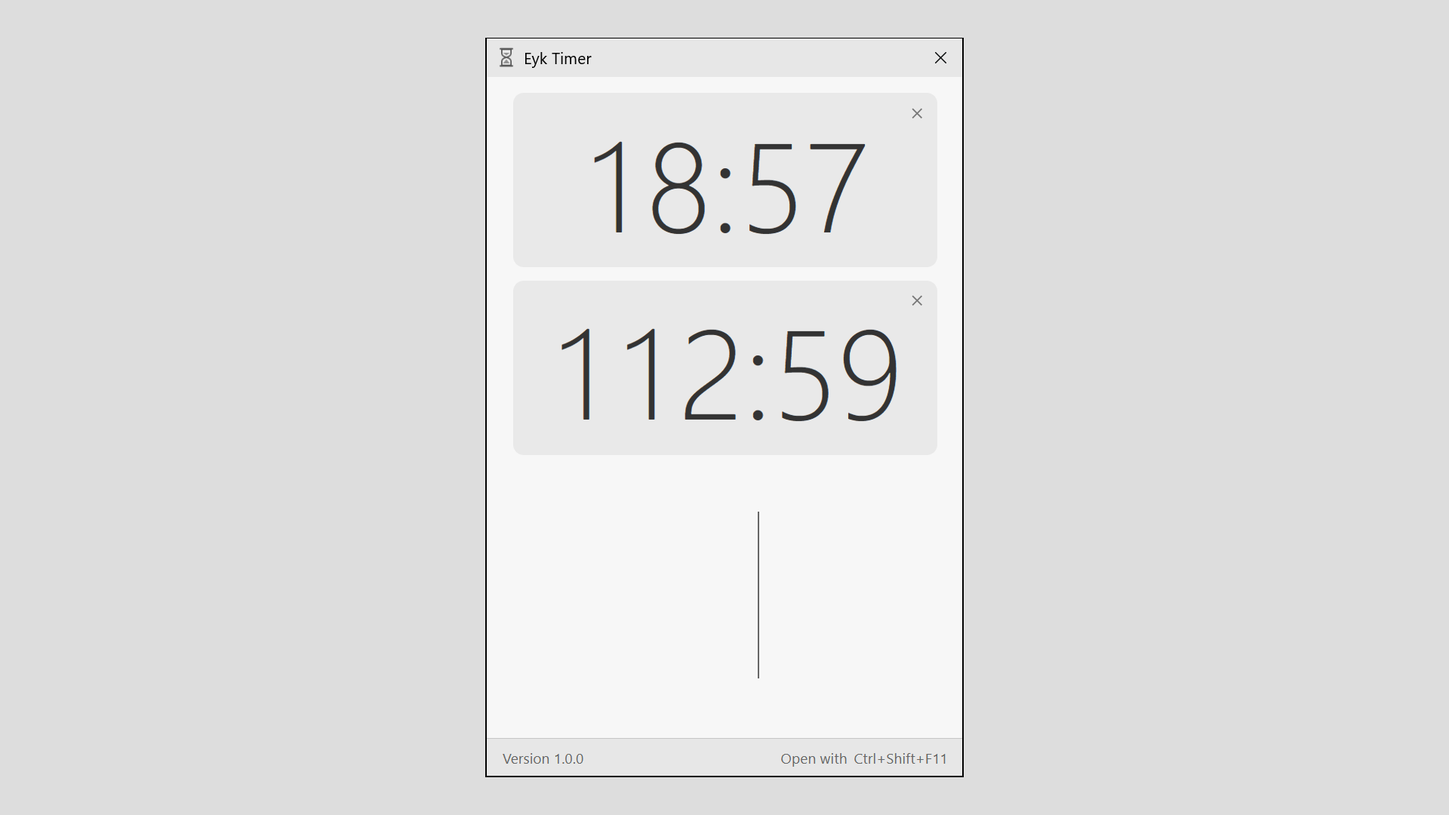
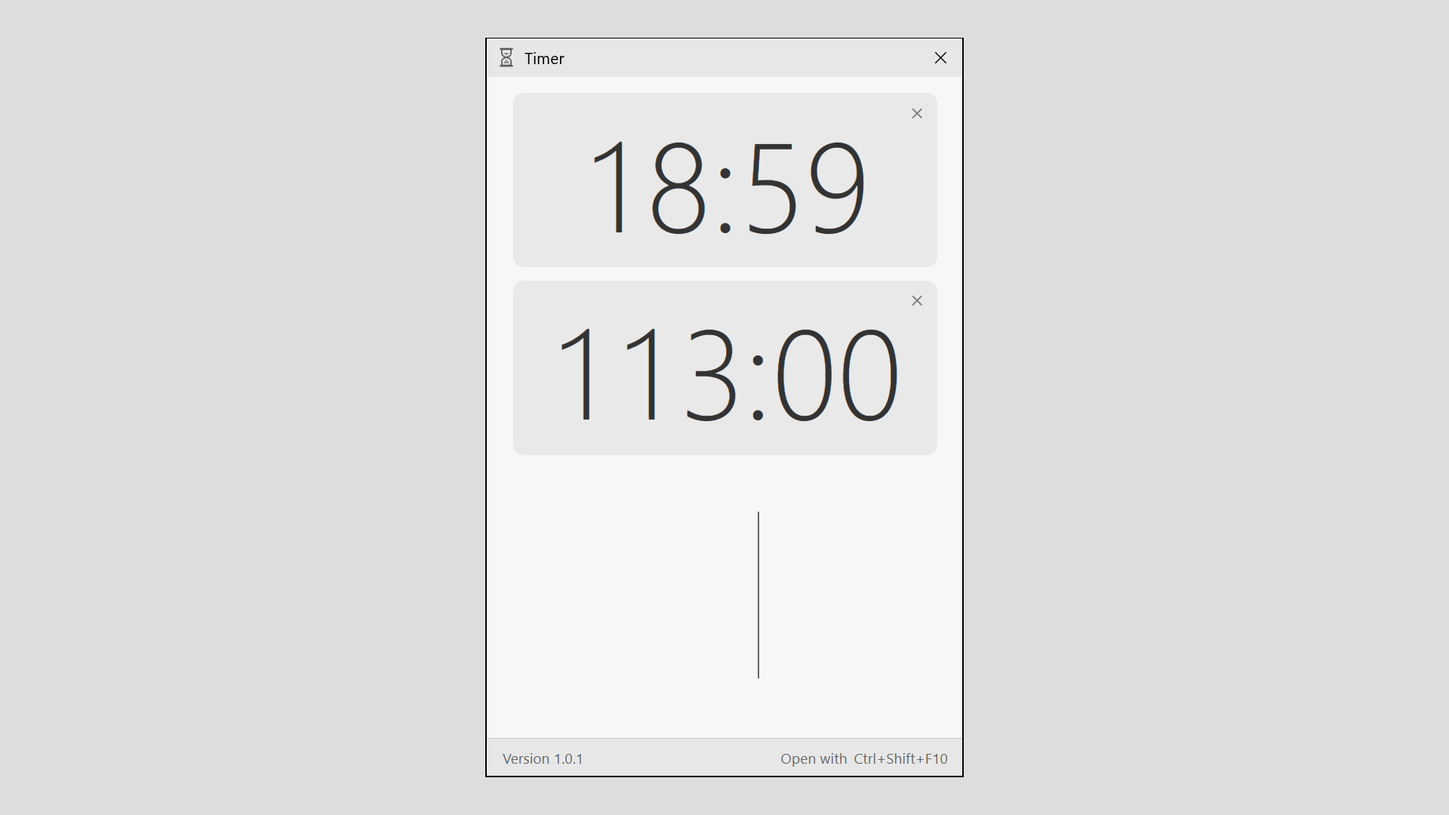
fix: simplify product presentation and follow system appearance

Changed region(s): [[0.4688, 0.3972, 0.625, 0.5194], [0.5625, 0.1528, 0.5938, 0.3056], [0.3438, 0.0611, 0.4062, 0.0917]]

diff --git a/src/style.css b/src/style.css
@@ -1,6 +1,8 @@
 :root {
   font-family: "Segoe UI Variable", "Segoe UI", system-ui, sans-serif;
-  color: #333; background: #f7f7f7;
+  color-scheme: light dark;
+  --surface: #f7f7f7; --text: #333; --chrome: #e7e7e7; --card: #e9e9e9; --muted: #666; --line: #c5c5c5; --cancel: #777; --hover: #d7d7d7; --scroll: #ccc; --canvas: #ddd;
+  color: var(--text); background: var(--surface);
   font-synthesis: none; text-rendering: optimizeLegibility; -webkit-font-smoothing: antialiased;
   --digits: 6rem;
 }
@@ -8,34 +10,37 @@
 html, body, #root { margin: 0; width: 100%; height: 100%; }
 body { overflow: hidden; }
 #root { display: flex; align-items: center; justify-content: center; }
-.app { width: 100%; height: 100%; display: flex; flex-direction: column; background: #f7f7f7; }
-.preview-titlebar { position: absolute; inset: auto; transform: translateY(-32px); width: 360px; height: 32px; display: flex; align-items: center; gap: 8px; padding: 0 12px; background: #e7e7e7; font-size: 12px; }
+.app { width: 100%; height: 100%; display: flex; flex-direction: column; background: var(--surface); }
+.preview-titlebar { position: absolute; inset: auto; transform: translateY(-32px); width: 360px; height: 32px; display: flex; align-items: center; gap: 8px; padding: 0 12px; background: var(--chrome); font-size: 12px; }
 .preview-titlebar img { width: 16px; height: 16px; }
 .workspace { --entry-height: 11.875rem; flex: 1; min-height: 0; display: flex; flex-direction: column; gap: .625rem; padding: .75rem 1.25rem; }
 .entry { flex: 1 0 var(--entry-height); min-height: var(--entry-height); display: flex; align-items: center; justify-content: center; }
 input {
   height: 7.875rem; padding: 0; border: 0; outline: none; box-sizing: content-box;
-  background: transparent; color: inherit; caret-color: #666;
+  background: transparent; color: inherit; caret-color: var(--muted);
   font: inherit; font-size: var(--digits); font-weight: 300; line-height: 1;
   text-align: center; font-variant-numeric: tabular-nums;
 }
 input[data-empty="true"] { text-align: right; }
-.running { flex: 0 1 auto; min-height: 0; overflow-y: auto; display: flex; flex-direction: column; gap: .625rem; scrollbar-width: thin; scrollbar-color: #ccc transparent; }
-.timer-card { position: relative; flex: 0 0 8.25rem; display: flex; align-items: center; justify-content: center; border-radius: 8px; background: #e9e9e9; padding: 8px; }
+.running { flex: 0 1 auto; min-height: 0; overflow-y: auto; display: flex; flex-direction: column; gap: .625rem; scrollbar-width: thin; scrollbar-color: var(--scroll) transparent; }
+.timer-card { position: relative; flex: 0 0 8.25rem; display: flex; align-items: center; justify-content: center; border-radius: 8px; background: var(--card); padding: 8px; }
 .timer-card time, .alarm time, .digit-measure { font-size: var(--digits); font-weight: 300; line-height: 1.15; font-variant-numeric: tabular-nums; }
-.cancel { position: absolute; top: 3px; right: 3px; display: grid; place-items: center; width: 25px; height: 25px; padding: 0; border: 0; border-radius: 3px; background: transparent; color: #777; cursor: pointer; }
-.cancel:hover { background: #d7d7d7; color: #333; }
-.cancel:focus-visible { outline: 1px solid #777; }
+.cancel { position: absolute; top: 3px; right: 3px; display: grid; place-items: center; width: 25px; height: 25px; padding: 0; border: 0; border-radius: 3px; background: transparent; color: var(--cancel); cursor: pointer; }
+.cancel:hover { background: var(--hover); color: var(--text); }
+.cancel:focus-visible { outline: 1px solid var(--cancel); }
 .cancel svg { width: 14px; height: 14px; fill: none; stroke: currentColor; stroke-width: 1.2; }
 .alarm { min-height: var(--entry-height); flex: 1; display: flex; align-items: center; justify-content: center; }
 .alarm time { animation: alarm-pulse 1.5s ease-in-out infinite; }
-footer { flex: 0 0 1.875rem; display: flex; align-items: center; justify-content: space-between; gap: 10px; padding: 0 12px; border-top: 1px solid #c5c5c5; background: #e7e7e7; font-size: .6875rem; color: #666; white-space: nowrap; }
+footer { flex: 0 0 1.875rem; display: flex; align-items: center; justify-content: space-between; gap: 10px; padding: 0 12px; border-top: 1px solid var(--line); background: var(--chrome); font-size: .6875rem; color: var(--muted); white-space: nowrap; }
 kbd { margin-left: 2px; font: inherit; }
-.error { margin: 0; font-size: 12px; color: #555; text-align: center; }
+.error { margin: 0; font-size: 12px; color: var(--muted); text-align: center; }
 .rest { width: 100%; height: 100%; }
 @keyframes alarm-pulse { 50% { opacity: .22; } }
 @media (prefers-reduced-motion: reduce) { .alarm time { animation: none; } }
-@media (min-width: 500px) { body { background: #ddd; } .app { box-shadow: 0 12px 50px #00000012; } }
+@media (min-width: 500px) { body { background: var(--canvas); } .app { box-shadow: 0 12px 50px #00000012; } }
 
 .digit-measure { position: absolute; visibility: hidden; white-space: nowrap; pointer-events: none; }
 .browser-preview .app { width: var(--preview-width, 360px); height: var(--preview-height, 244px); max-width: 100vw; }
+
+:root[data-theme="dark"] { --surface: #1b1b1b; --text: #e8e8e8; --chrome: #252525; --card: #2b2b2b; --muted: #b5b5b5; --line: #444; --cancel: #aaa; --hover: #414141; --scroll: #666; --canvas: #111; }
+:root[data-theme="dark"] .preview-titlebar img { filter: brightness(0) invert(1); }

diff --git a/website/assets/style.css b/website/assets/style.css
@@ -1,1 +1,27 @@
-:root{font-family:'Segoe UI',system-ui,sans-serif;color:#252525;background:#f7f7f5;font-synthesis:none}*{box-sizing:border-box}body{margin:0}a{color:inherit;text-underline-offset:4px}header,main,footer{max-width:1060px;margin:auto;padding:28px}header{display:flex;justify-content:space-between;align-items:center}header>a{text-decoration:none;display:flex;align-items:center;gap:10px;font-size:18px}header img{width:23px}nav{display:flex;gap:16px;font-size:14px}nav a[aria-current]{font-weight:650;text-decoration:none}.hero{display:grid;grid-template-columns:1.05fr 1fr;align-items:center;gap:64px;padding:55px 0 65px}h1{font-size:15px;letter-spacing:.1em;text-transform:uppercase;font-weight:500;color:#666;margin:0 0 24px}h2{font-size:clamp(40px,5.8vw,66px);font-weight:350;line-height:1.12;letter-spacing:-.045em;margin:0 0 26px}.intro{font-size:18px;line-height:1.65;max-width:410px;color:#555}.download{display:inline-flex;align-items:center;gap:12px;background:#292929;color:#fff;text-decoration:none;padding:14px 22px;border-radius:7px;margin-top:18px;font-weight:550}.download:hover{background:#444}.fine{font-size:12px;color:#666;line-height:1.6;max-width:380px}.shot{margin:0;display:flex;justify-content:center}.shot img{width:100%;max-width:370px;height:auto;filter:drop-shadow(0 16px 24px #00000018);border-radius:4px}.facts{border-top:1px solid #d7d7d3;padding:28px 0;display:flex;gap:30px;flex-wrap:wrap;font-size:14px;color:#555}.detail{max-width:710px;line-height:1.7;color:#555}footer{border-top:1px solid #d7d7d3;display:flex;justify-content:space-between;gap:20px;flex-wrap:wrap;font-size:13px;color:#666;margin-top:40px}footer div{display:flex;gap:20px;flex-wrap:wrap}a:focus-visible{outline:2px solid #444;outline-offset:5px}.legal{max-width:720px;line-height:1.8;padding-bottom:60px}.legal h1{font-size:32px;letter-spacing:0;text-transform:none;color:#252525}@media(max-width:700px){header,main,footer{padding:22px}.hero{grid-template-columns:1fr;gap:35px;padding:28px 0 40px}h2{font-size:48px}.shot img{max-width:300px}.facts{gap:14px 24px}}
+:root { color-scheme: light dark; --bg: #f7f7f5; --fg: #292929; --muted: #666; --button: #292929; --button-text: #fff; --hover: #454545; font-family: 'Segoe UI', system-ui, sans-serif; font-synthesis: none; }
+* { box-sizing: border-box; }
+body { margin: 0; background: var(--bg); color: var(--fg); }
+a { color: inherit; text-underline-offset: 4px; }
+a:focus-visible { outline: 2px solid currentColor; outline-offset: 5px; }
+header, main, footer { width: min(100%, 840px); margin-inline: auto; padding: 24px; }
+header { display: flex; justify-content: space-between; align-items: center; gap: 20px; }
+.brand { display: inline-flex; align-items: center; gap: 10px; text-decoration: none; font-size: 18px; }
+.brand img { width: 22px; height: 22px; }
+nav { display: flex; gap: 16px; font-size: 14px; }
+nav a[aria-current] { font-weight: 650; text-decoration: none; }
+main { display: grid; grid-template-columns: 1fr 270px; align-items: center; gap: 48px; padding-block: 24px; }
+h1 { font-size: clamp(28px, 4vw, 36px); line-height: 1.3; font-weight: 400; letter-spacing: -.025em; margin: 0 0 28px; }
+.download { display: inline-block; padding: 13px 20px; border-radius: 6px; color: var(--button-text); background: var(--button); font-size: 15px; font-weight: 550; text-decoration: none; }
+.download:hover { background: var(--hover); }
+.shot { margin: 0; position: relative; }
+.shot img { display: block; width: 100%; height: auto; border-radius: 3px; box-shadow: 0 10px 28px #00000018; }
+footer { display: flex; flex-wrap: wrap; justify-content: space-between; gap: 16px; color: var(--muted); font-size: 14px; }
+footer div { display: flex; flex-wrap: wrap; gap: 18px; }
+.legal { display: block; max-width: 720px; line-height: 1.7; }
+.legal h1 { font-size: 28px; }
+@media (prefers-color-scheme: dark) { :root { --bg: #191919; --fg: #ebebeb; --muted: #b6b6b6; --button: #e9e9e9; --button-text: #202020; --hover: #fff; } .brand img { filter: brightness(0) invert(1); } }
+@media (max-width: 620px) { header, main, footer { padding: 20px; } main { grid-template-columns: 1fr; gap: 30px; } h1 { font-size: 30px; margin-bottom: 22px; } .shot { width: min(230px, 100%); margin-inline: auto; } footer { padding-top: 16px; } }
+
+.shot .dark { position: absolute; inset: 0; height: 100%; clip-path: polygon(0 0, 100% 0, 100% 100%); box-shadow: none; }
+.split-edge { position: absolute; inset: 0; width: 100%; height: 100%; pointer-events: none; }
+.split-edge line { stroke: #808080; stroke-width: 1; vector-effect: non-scaling-stroke; }

diff --git a/website/de/privacy.html b/website/de/privacy.html
@@ -1,1 +1,19 @@
-<!doctype html><html lang="de"><meta charset="utf-8"><meta name="viewport" content="width=device-width,initial-scale=1"><title>Eyk Timer</title><meta name="description" content="Ein kleiner Windows-Timer, der dir aus dem Weg geht."><link rel="icon" href="../assets/timer.svg" type="image/svg+xml"><link rel="stylesheet" href="../assets/style.css"><link rel="alternate" hreflang="en" href="https://eyk.github.io/timer/en/"><link rel="alternate" hreflang="de" href="https://eyk.github.io/timer/de/"><body><header><a href="./"><img src="../assets/timer.svg" alt=""><span>Eyk / Timer</span></a><nav aria-label="Language"><a href="../de/" lang="de" aria-current="page">DE</a><a href="../en/" lang="en">EN</a></nav></header><main class="legal"><h1>Datenschutz</h1><p>Herausgeber: Walter Seethaler (eyk).</p><p>Eyk Timer arbeitet lokal und übermittelt keine Timer-, Personen- oder Nutzungsdaten an den Entwickler. Keine Konten, Werbung, Analyse- oder Trackingdienste. Timer werden nur im Arbeitsspeicher gehalten und beim Beenden verworfen.</p><p>Diese Website nutzt keine Analysewerkzeuge und setzt keine eigenen Cookies. GitHub Pages verarbeitet beim Abruf technische Verbindungsdaten, darunter IP-Adressen, nach seiner <a href="https://docs.github.com/en/site-policy/privacy-policies/github-general-privacy-statement">Datenschutzerklärung</a>. Downloads und Support über GitHub sind ebenfalls separate Dienste. Windows und WebView2 unterliegen den Bestimmungen ihrer Anbieter.</p><p>Kontakt: <a href="https://github.com/eyk/timer/issues">GitHub Issues</a>. Bitte keine persönlichen oder vertraulichen Informationen öffentlich einstellen.</p></main><footer><span>Walter Seethaler · eyk</span><div><a href="https://github.com/eyk/timer">Quellcode</a><a href="https://github.com/eyk/timer/issues">Support</a><a href="privacy.html">Datenschutz</a><a href="https://github.com/eyk/timer/blob/main/LICENSE">MIT</a></div></footer></body></html>
+<!doctype html>
+<html lang="de">
+<head>
+<meta charset="utf-8">
+<meta name="viewport" content="width=device-width,initial-scale=1">
+<meta name="color-scheme" content="light dark">
+<title>Eyk Timer</title>
+<meta name="description" content="Minuten eingeben. Enter. Fertig.">
+<link rel="icon" href="../assets/timer.svg" type="image/svg+xml">
+<link rel="stylesheet" href="../assets/style.css">
+<link rel="alternate" hreflang="de" href="https://eyk.github.io/timer/de/">
+<link rel="alternate" hreflang="en" href="https://eyk.github.io/timer/en/">
+</head>
+<body>
+<header><a class="brand" href="./"><img src="../assets/timer.svg" alt=""><span>Eyk / Timer</span></a><nav aria-label="Sprache"><a href="../en/" lang="en">EN</a><a href="../de/" lang="de" aria-current="page">DE</a></nav></header>
+<main class="legal"><h1>Datenschutz</h1><p>Herausgeber: Walter Seethaler (eyk).</p><p>Eyk Timer arbeitet lokal und übermittelt keine Timer-, Personen- oder Nutzungsdaten an den Entwickler. Keine Konten, Werbung, Analyse- oder Trackingdienste. Timer werden nur im Arbeitsspeicher gehalten und beim Beenden verworfen.</p><p>Diese Website nutzt keine Analysewerkzeuge und setzt keine eigenen Cookies. GitHub Pages verarbeitet beim Abruf technische Verbindungsdaten, darunter IP-Adressen, nach seiner <a href="https://docs.github.com/en/site-policy/privacy-policies/github-general-privacy-statement">Datenschutzerklärung</a>. Downloads und Support über GitHub sind ebenfalls separate Dienste. Windows und WebView2 unterliegen den Bestimmungen ihrer Anbieter.</p><p>Kontakt: <a href="https://github.com/eyk/timer/issues">GitHub Issues</a>. Bitte keine persönlichen oder vertraulichen Informationen öffentlich einstellen.</p></main>
+<footer><a href="https://github.com/eyk">Walter Seethaler · eyk</a><div><a href="https://github.com/eyk/timer">Quellcode</a><a href="https://github.com/eyk/timer/issues">Support</a><a href="privacy.html">Datenschutz</a></div></footer>
+</body>
+</html>

diff --git a/website/de/index.html b/website/de/index.html
@@ -1,1 +1,19 @@
-<!doctype html><html lang="de"><meta charset="utf-8"><meta name="viewport" content="width=device-width,initial-scale=1"><title>Eyk Timer</title><meta name="description" content="Ein kleiner Windows-Timer, der dir aus dem Weg geht."><link rel="icon" href="../assets/timer.svg" type="image/svg+xml"><link rel="stylesheet" href="../assets/style.css"><link rel="alternate" hreflang="en" href="https://eyk.github.io/timer/en/"><link rel="alternate" hreflang="de" href="https://eyk.github.io/timer/de/"><body><header><a href="./"><img src="../assets/timer.svg" alt=""><span>Eyk / Timer</span></a><nav aria-label="Language"><a href="../de/" lang="de" aria-current="page">DE</a><a href="../en/" lang="en">EN</a></nav></header><main><section class="hero"><div><h1>Eyk Timer</h1><h2>Minuten eingeben.<br>Enter.<br>Fertig.</h2><p class="intro">Ein kleiner Windows-Timer, der dir aus dem Weg geht.</p><a class="download" href="https://github.com/eyk/timer/releases/download/v1.0.0/Eyk-Timer-1.0.0-windows-x64.exe">Für Windows herunterladen<span aria-hidden="true">↓</span></a><p class="fine">Version 1.0.0 · Windows 10/11 · x64 · Kostenlos</p><p class="fine">Dieser direkte Download ist unsigniert. Windows kann vor dem Ausführen eine Bestätigung verlangen.</p></div><figure class="shot"><img src="../assets/timer-de.png" alt="Eyk Timer mit zwei unabhängigen Countdowns" width="630" height="978"></figure></section><div class="facts"><span>1–999 Minuten</span><span>Bis zu zehn Timer</span><span>Keine Konten. Keine Werbung.</span></div><p class="detail">Mit dem angezeigten Tastaturkurzbefehl öffnen. Minuten eingeben und Enter drücken. Das Fenster verschwindet, dein Timer läuft weiter. Bei Ablauf meldet er sich hörbar und sichtbar. Enter bestätigt.</p><p class="fine">Timer gelten für die aktuelle Sitzung. Während Standby wartet ein abgelaufener Alarm bis zum Aufwachen. Es werden keine Timerdaten an uns gesendet.</p></main><footer><span>Walter Seethaler · eyk</span><div><a href="https://github.com/eyk/timer">Quellcode</a><a href="https://github.com/eyk/timer/issues">Support</a><a href="privacy.html">Datenschutz</a><a href="https://github.com/eyk/timer/blob/main/LICENSE">MIT</a></div></footer></body></html>
+<!doctype html>
+<html lang="de">
+<head>
+<meta charset="utf-8">
+<meta name="viewport" content="width=device-width,initial-scale=1">
+<meta name="color-scheme" content="light dark">
+<title>Eyk Timer</title>
+<meta name="description" content="Minuten eingeben. Enter. Fertig.">
+<link rel="icon" href="../assets/timer.svg" type="image/svg+xml">
+<link rel="stylesheet" href="../assets/style.css">
+<link rel="alternate" hreflang="de" href="https://eyk.github.io/timer/de/">
+<link rel="alternate" hreflang="en" href="https://eyk.github.io/timer/en/">
+</head>
+<body>
+<header><a class="brand" href="./"><img src="../assets/timer.svg" alt=""><span>Eyk / Timer</span></a><nav aria-label="Sprache"><a href="../en/" lang="en">EN</a><a href="../de/" lang="de" aria-current="page">DE</a></nav></header>
+<main><section><h1>Minuten eingeben.<br>Enter. Fertig.</h1><a class="download" href="https://github.com/eyk/timer/releases/latest">Download für Windows</a></section><figure class="shot"><img class="light" src="../assets/timer-de.png" alt="Timer, diagonal geteilt in helle und dunkle Darstellung" width="634" height="978"><img class="dark" src="../assets/timer-de-dark.png" alt="" aria-hidden="true" width="634" height="978"><svg class="split-edge" viewBox="0 0 634 978" preserveAspectRatio="none" aria-hidden="true"><line x1="0" y1="0" x2="634" y2="978" /></svg></figure></main>
+<footer><a href="https://github.com/eyk">Walter Seethaler · eyk</a><div><a href="https://github.com/eyk/timer">Quellcode</a><a href="https://github.com/eyk/timer/issues">Support</a><a href="privacy.html">Datenschutz</a></div></footer>
+</body>
+</html>

diff --git a/website/en/index.html b/website/en/index.html
@@ -1,1 +1,19 @@
-<!doctype html><html lang="en"><meta charset="utf-8"><meta name="viewport" content="width=device-width,initial-scale=1"><title>Eyk Timer</title><meta name="description" content="A small Windows timer that gets out of your way."><link rel="icon" href="../assets/timer.svg" type="image/svg+xml"><link rel="stylesheet" href="../assets/style.css"><link rel="alternate" hreflang="en" href="https://eyk.github.io/timer/en/"><link rel="alternate" hreflang="de" href="https://eyk.github.io/timer/de/"><body><header><a href="./"><img src="../assets/timer.svg" alt=""><span>Eyk / Timer</span></a><nav aria-label="Language"><a href="../de/" lang="de">DE</a><a href="../en/" lang="en" aria-current="page">EN</a></nav></header><main><section class="hero"><div><h1>Eyk Timer</h1><h2>Type minutes.<br>Press Enter.<br>Done.</h2><p class="intro">A small Windows timer that gets out of your way.</p><a class="download" href="https://github.com/eyk/timer/releases/download/v1.0.0/Eyk-Timer-1.0.0-windows-x64.exe">Download for Windows<span aria-hidden="true">↓</span></a><p class="fine">Version 1.0.0 · Windows 10/11 · x64 · Free</p><p class="fine">This direct download is unsigned. Windows may ask you to confirm before running it.</p></div><figure class="shot"><img src="../assets/timer-en.png" alt="Eyk Timer with two independent countdowns" width="630" height="978"></figure></section><div class="facts"><span>1–999 minutes</span><span>Up to ten timers</span><span>No accounts. No ads.</span></div><p class="detail">Open with the keyboard shortcut shown in the app. Type minutes and press Enter. The window disappears; your timer keeps running. When time is up, an audible and visible alarm brings you back. Press Enter to acknowledge.</p><p class="fine">Timers last for the current session. During sleep, an overdue alarm waits until your computer wakes. No timer data is sent to us.</p></main><footer><span>Walter Seethaler · eyk</span><div><a href="https://github.com/eyk/timer">Source code</a><a href="https://github.com/eyk/timer/issues">Support</a><a href="privacy.html">Privacy</a><a href="https://github.com/eyk/timer/blob/main/LICENSE">MIT</a></div></footer></body></html>
+<!doctype html>
+<html lang="en">
+<head>
+<meta charset="utf-8">
+<meta name="viewport" content="width=device-width,initial-scale=1">
+<meta name="color-scheme" content="light dark">
+<title>Eyk Timer</title>
+<meta name="description" content="Type minutes. Press Enter. Done.">
+<link rel="icon" href="../assets/timer.svg" type="image/svg+xml">
+<link rel="stylesheet" href="../assets/style.css">
+<link rel="alternate" hreflang="de" href="https://eyk.github.io/timer/de/">
+<link rel="alternate" hreflang="en" href="https://eyk.github.io/timer/en/">
+</head>
+<body>
+<header><a class="brand" href="./"><img src="../assets/timer.svg" alt=""><span>Eyk / Timer</span></a><nav aria-label="Language"><a href="../en/" lang="en" aria-current="page">EN</a><a href="../de/" lang="de">DE</a></nav></header>
+<main><section><h1>Type minutes.<br>Press Enter. Done.</h1><a class="download" href="https://github.com/eyk/timer/releases/latest">Download for Windows</a></section><figure class="shot"><img class="light" src="../assets/timer-en.png" alt="Timer, diagonally split into light and dark appearance" width="634" height="978"><img class="dark" src="../assets/timer-en-dark.png" alt="" aria-hidden="true" width="634" height="978"><svg class="split-edge" viewBox="0 0 634 978" preserveAspectRatio="none" aria-hidden="true"><line x1="0" y1="0" x2="634" y2="978" /></svg></figure></main>
+<footer><a href="https://github.com/eyk">Walter Seethaler · eyk</a><div><a href="https://github.com/eyk/timer">Source</a><a href="https://github.com/eyk/timer/issues">Support</a><a href="privacy.html">Privacy</a></div></footer>
+</body>
+</html>

diff --git a/website/en/privacy.html b/website/en/privacy.html
@@ -1,1 +1,19 @@
-<!doctype html><html lang="en"><meta charset="utf-8"><meta name="viewport" content="width=device-width,initial-scale=1"><title>Eyk Timer</title><meta name="description" content="A small Windows timer that gets out of your way."><link rel="icon" href="../assets/timer.svg" type="image/svg+xml"><link rel="stylesheet" href="../assets/style.css"><link rel="alternate" hreflang="en" href="https://eyk.github.io/timer/en/"><link rel="alternate" hreflang="de" href="https://eyk.github.io/timer/de/"><body><header><a href="./"><img src="../assets/timer.svg" alt=""><span>Eyk / Timer</span></a><nav aria-label="Language"><a href="../de/" lang="de">DE</a><a href="../en/" lang="en" aria-current="page">EN</a></nav></header><main class="legal"><h1>Privacy</h1><p>Publisher: Walter Seethaler (eyk).</p><p>Eyk Timer runs locally and sends no timer, personal or usage data to the developer. No accounts, ads, analytics or tracking. Timers are kept in memory and discarded when the app quits.</p><p>This website uses no analytics and sets no cookies of its own. GitHub Pages processes technical connection data, including IP addresses, under its <a href="https://docs.github.com/en/site-policy/privacy-policies/github-general-privacy-statement">privacy statement</a>. GitHub downloads and support are separate services. Windows and WebView2 are subject to their providers’ terms.</p><p>Contact: <a href="https://github.com/eyk/timer/issues">GitHub Issues</a>. Do not post personal or confidential information publicly.</p></main><footer><span>Walter Seethaler · eyk</span><div><a href="https://github.com/eyk/timer">Source code</a><a href="https://github.com/eyk/timer/issues">Support</a><a href="privacy.html">Privacy</a><a href="https://github.com/eyk/timer/blob/main/LICENSE">MIT</a></div></footer></body></html>
+<!doctype html>
+<html lang="en">
+<head>
+<meta charset="utf-8">
+<meta name="viewport" content="width=device-width,initial-scale=1">
+<meta name="color-scheme" content="light dark">
+<title>Eyk Timer</title>
+<meta name="description" content="Type minutes. Press Enter. Done.">
+<link rel="icon" href="../assets/timer.svg" type="image/svg+xml">
+<link rel="stylesheet" href="../assets/style.css">
+<link rel="alternate" hreflang="de" href="https://eyk.github.io/timer/de/">
+<link rel="alternate" hreflang="en" href="https://eyk.github.io/timer/en/">
+</head>
+<body>
+<header><a class="brand" href="./"><img src="../assets/timer.svg" alt=""><span>Eyk / Timer</span></a><nav aria-label="Language"><a href="../en/" lang="en" aria-current="page">EN</a><a href="../de/" lang="de">DE</a></nav></header>
+<main class="legal"><h1>Privacy</h1><p>Publisher: Walter Seethaler (eyk).</p><p>Eyk Timer runs locally and sends no timer, personal or usage data to the developer. No accounts, ads, analytics or tracking. Timers are kept in memory and discarded when the app quits.</p><p>This website uses no analytics and sets no cookies of its own. GitHub Pages processes technical connection data, including IP addresses, under its <a href="https://docs.github.com/en/site-policy/privacy-policies/github-general-privacy-statement">privacy statement</a>. GitHub downloads and support are separate services. Windows and WebView2 are subject to their providers’ terms.</p><p>Contact: <a href="https://github.com/eyk/timer/issues">GitHub Issues</a>. Do not post personal or confidential information publicly.</p></main>
+<footer><a href="https://github.com/eyk">Walter Seethaler · eyk</a><div><a href="https://github.com/eyk/timer">Source</a><a href="https://github.com/eyk/timer/issues">Support</a><a href="privacy.html">Privacy</a></div></footer>
+</body>
+</html>

diff --git a/tests/timer.spec.ts b/tests/timer.spec.ts
@@ -28,7 +28,7 @@ test('native titlebar is not duplicated; empty caret sits half a digit right of 
   await expect(input).toHaveValue('');
   await expect(page.getByRole('button')).toHaveCount(0);
   await expect(page.locator('footer')).toHaveText(`Version ${version}`);
-  await expect(page.locator('header')).toHaveText('Eyk Timer');
+  await expect(page.locator('header')).toHaveText('Timer');
   const empty = await inputCenter(page);
   expect(empty.width).toBeGreaterThan(40);
   expect(empty.width).toBeLessThan(65);
@@ -97,7 +97,9 @@ test('no intermediate timer card is rendered on Enter; alarm acknowledgement pre
 });
 
 test('calendar corrections do not change the remaining-time display', async ({ page }) => {
-  await page.clock.install();
+  // Freeze elapsed time before opening the app so host load cannot consume an extra second.
+  await page.clock.install({ time: new Date('2026-01-01T00:00:00Z') });
+  await page.clock.pauseAt(new Date('2026-01-01T00:01:00Z'));
   await openApp(page);
   await page.keyboard.type('5');
   await page.keyboard.press('Enter');
@@ -234,4 +236,18 @@ test.describe('English and fallback', () => {
     await expect(page.getByRole('button', {name:'Cancel timer'})).toHaveCount(1);
     await expect(page.locator('html')).toHaveAttribute('lang','en');
   });
+});
+
+
+test('system color preference updates the timer without a theme control', async ({ page }) => {
+  await page.emulateMedia({colorScheme:'light'}); await openApp(page);
+  await expect(page.locator('.app')).toHaveCSS('background-color','rgb(247, 247, 247)');
+  await page.keyboard.type('19');await page.keyboard.press('Enter');await reopen(page);
+  await page.emulateMedia({colorScheme:'dark'});
+  await expect(page.locator('.app')).toHaveCSS('background-color','rgb(27, 27, 27)');
+  await expect(page.locator('.timer-card')).toHaveCSS('background-color','rgb(43, 43, 43)');
+  await expect(page.locator('#minutes')).toBeFocused();
+  await expect(page.getByRole('button')).toHaveCount(1);
+  await page.emulateMedia({colorScheme:'light'});
+  await expect(page.locator('.app')).toHaveCSS('background-color','rgb(247, 247, 247)');
 });

diff --git a/src/preview.ts b/src/preview.ts
@@ -17,13 +17,14 @@ const now = () => performance.now();
 document.body.classList.add('browser-preview');
 const header = document.createElement('header');
 header.className = 'preview-titlebar';
-header.innerHTML = '<img src="/timer.svg" alt=""><span>Eyk Timer</span>';
+header.innerHTML = '<img src="/timer.svg" alt=""><span>Timer</span>';
 document.body.append(header);
 
 function snapshot(): TimerState {
   const sampledAtMs = now();
   return {
     timers: timers.map(timer => ({ id: timer.id, remainingMs: Math.max(0, timer.deadline - sampledAtMs), ringing: timer.ringing })),
+    theme: matchMedia('(prefers-color-scheme: dark)').matches ? 'dark' : 'light',
     language: preferredLanguage(navigator.languages), sampledAtMs, revision, openSerial, visible, guardRemainingMs: Math.max(0, guardUntil - sampledAtMs), shortcut: null, error: null,
   };
 }
@@ -88,3 +89,5 @@ mockIPC((command, payload) => {
 const reopen = () => { if (!visible) { advance(); visible = true; openSerial++; revision++; publish(); } };
 window.addEventListener('focus', reopen);
 document.addEventListener('pointerdown', event => { if ((event.target as Element).closest('.rest')) reopen(); });
+
+matchMedia('(prefers-color-scheme: dark)').addEventListener('change', publish);

diff --git a/website/index.html b/website/index.html
@@ -1,1 +1,1 @@
-<!doctype html><html lang="en"><meta charset="utf-8"><meta name="viewport" content="width=device-width,initial-scale=1"><title>Eyk Timer</title><script>const languages=navigator.languages||[navigator.language];let target='en';for(const language of languages){const base=language.toLowerCase().split('-')[0];if(base==='de'||base==='en'){target=base;break}}location.replace('./'+target+'/');</script><p><a href="en/">English</a> · <a href="de/">Deutsch</a></p></html>
+<!doctype html><html lang="en"><meta charset="utf-8"><meta name="viewport" content="width=device-width,initial-scale=1"><meta name="color-scheme" content="light dark"><title>Eyk Timer</title><script>location.replace('./'+((navigator.language||'').toLowerCase().startsWith('de')?'de':'en')+'/');</script><p><a href="en/">English</a> · <a href="de/">Deutsch</a></p></html>

diff --git a/src/App.tsx b/src/App.tsx
@@ -11,6 +11,7 @@ export default function App() {
   const language = state?.language ?? preferredLanguage(navigator.languages);
   const text = messages(language);
   document.documentElement.lang = language;
+  document.documentElement.dataset.theme = state?.theme ?? (matchMedia('(prefers-color-scheme: dark)').matches ? 'dark' : 'light');
   const [minutes, setMinutes] = useState('');
   const [error, setError] = useState('');
   const input = useRef<HTMLInputElement>(null);

diff --git a/src/backend.ts b/src/backend.ts
@@ -4,6 +4,7 @@ import { listen } from '@tauri-apps/api/event';
 export interface TimerItem { id: number; remainingMs: number; ringing: boolean }
 export interface TimerState {
   language: import('./i18n').Language;
+  theme: 'light' | 'dark';
   timers: TimerItem[];
   sampledAtMs: number; // Native elapsed-clock reference, not a Unix/calendar timestamp.
   revision: number;

diff --git a/index.html b/index.html
@@ -4,7 +4,7 @@
     <meta charset="UTF-8" />
     <meta name="viewport" content="width=device-width, initial-scale=1.0" />
     <meta name="theme-color" content="#f7f7f2" />
-    <title>Eyk Timer</title>
+    <title>Timer</title>
     <link rel="icon" type="image/svg+xml" href="/timer.svg" />
   </head>
   <body>
